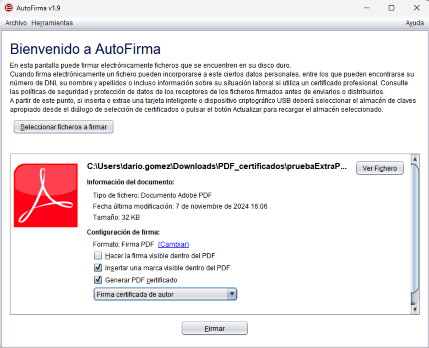
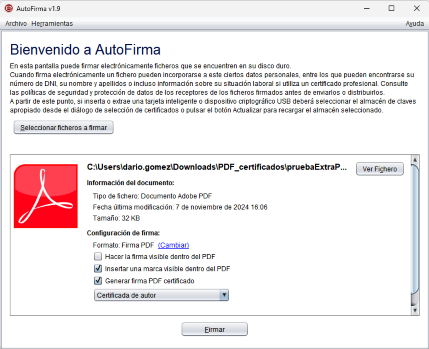
16821 - correccion de errores cambiar items en la info de firma, no afecta al panel de preferencias si es pdf certificado, no permite dicha accion en info firma nueva imagen ayuda nueva entrada en fileslist ampliacion ayuda pades

diff --git a/afirma-simple/src/main/resources/help/Spanish.lproj/pgs/MenuPreferencias.html b/afirma-simple/src/main/resources/help/Spanish.lproj/pgs/MenuPreferencias.html
@@ -120,8 +120,12 @@
       presentar&aacute; al usuario una ventana para la selecci&oacute;n del &aacute;rea y p&aacute;ginas del PDF en las que se
       agregar&aacute; una marca visible. Consulte el apartado <a href="VentanaPdfVisible.html">Marcas visibles PDF</a> para mayor detalle.</li>
       <li>Generar PDF certificado: Al habilitar esta opci&oacute;n, se permitir&aacute; al usuario generar un PDF certificado, con el nivel
-      de certificaci&oacute;n que se elija en el listado situado a continuaci&oacute;n.
-      .</li>
+      de certificaci&oacute;n que se elija en el listado situado a continuaci&oacute;n.</li>
+       <ul>
+        <li>Certificada de autor: No se admiten cambios.</li>
+        <li>Certificada de autor para formularios: Solo se permiten acciones de rellenado de formularios, firma y adici&oacute;n de p&aacute;ginas.</li>
+        <li>Certificada com&uacute;n: Solo se permiten acciones de comentarios, rellenado de formularios, firma y adici&oacute;n de p&aacute;ginas.</li>
+       </ul>
      </ul>
     </li>
     <li><b>Metadatos de las firmas PAdES:</b>

diff --git a/afirma-simple/src/main/java/es/gob/afirma/standalone/ui/SignatureConfigInfoPanel.java b/afirma-simple/src/main/java/es/gob/afirma/standalone/ui/SignatureConfigInfoPanel.java
@@ -2,6 +2,9 @@ package es.gob.afirma.standalone.ui;
 
 import static es.gob.afirma.standalone.configurator.common.PreferencesManager.PREFERENCE_PADES_CHECK_CERTIFIED_PDF;
 import static es.gob.afirma.standalone.configurator.common.PreferencesManager.PREFERENCE_PDF_CERTIFIED_TYPE;
+import static es.gob.afirma.standalone.configurator.common.PreferencesManager.PREFERENCE_PADES_CHECK_CERTIFIED_PDF_SIGCONFIGINFOPANEL;
+import static es.gob.afirma.standalone.configurator.common.PreferencesManager.PREFERENCE_PDF_CERTIFIED_TYPE_SIGCONFIGINFOPANEL;
+import static es.gob.afirma.standalone.configurator.common.PreferencesManager.PREFERENCE_IS_CERTIFIED_PDF;
 
 import java.awt.Color;
 import java.awt.Component;
@@ -41,6 +44,7 @@ import es.gob.afirma.core.signers.AOSigner;
 import es.gob.afirma.core.signers.AOSignerFactory;
 import es.gob.afirma.core.ui.AOUIFactory;
 import es.gob.afirma.signers.pades.AOPDFSigner;
+import es.gob.afirma.signers.pades.common.PdfExtraParams;
 import es.gob.afirma.standalone.LookAndFeelManager;
 import es.gob.afirma.standalone.SimpleAfirmaMessages;
 import es.gob.afirma.standalone.configurator.common.PreferencesManager;
@@ -74,6 +78,8 @@ public class SignatureConfigInfoPanel extends JPanel {
 	JComboBox<Object> padesBasicFormatCertified() {
 		return this.pdfSignCertified;
 	}
+	
+	private JLabel noCertPDFAllowLabel;
 
 	public SignatureConfigInfoPanel(final SignOperationConfig signConfig, final Color bgColor, final SignPanelFilePanel signPanel) {
 		this.signPanelFile = signPanel;
@@ -305,6 +311,15 @@ public class SignatureConfigInfoPanel extends JPanel {
 		final CryptoOperation cop = config.getCryptoOperation();
 		final FileType fileType = config.getFileType();
 		
+		boolean isCertifiedPDF;
+		
+		if(config.getSignValidity() != null){
+			isCertifiedPDF = PreferencesManager.getBoolean(PREFERENCE_IS_CERTIFIED_PDF);
+		}
+		else{
+			isCertifiedPDF = false;
+		}
+		
 		final DefaultComboBoxModel<Object> pdfCertifiedFormatModel = new DefaultComboBoxModel<>(
 				new Object[] {
 					new ValueTextPair(AOSignConstants.PDF_CERT_1, PDF_CERT_TIPO_1),
@@ -355,7 +370,6 @@ public class SignatureConfigInfoPanel extends JPanel {
             // Check para crear PDF certificados
             this.certifiedPDF = new JCheckBox(
         		SimpleAfirmaMessages.getString("PreferencesPanel.210") //$NON-NLS-1$
-        		//PreferencesManager.getBoolean(PreferencesManager.PREFERENCE_PADES_CHECK_CERTIFIED_PDF)  //AQUI
         	);
             this.accesibleDescription += SimpleAfirmaMessages.getString("PreferencesPanel.205"); //$NON-NLS-1$
             if (!LookAndFeelManager.WINDOWS_HIGH_CONTRAST) {
@@ -366,14 +380,21 @@ public class SignatureConfigInfoPanel extends JPanel {
     			@Override
     			public void actionPerformed(final ActionEvent e) {
     				final JCheckBox checkCertifiedCheckBox = (JCheckBox) e.getSource();
-	            	PreferencesManager.put(PREFERENCE_PADES_CHECK_CERTIFIED_PDF, Boolean.toString(checkCertifiedCheckBox.isSelected()));
+	            	PreferencesManager.put(PREFERENCE_PADES_CHECK_CERTIFIED_PDF_SIGCONFIGINFOPANEL, Boolean.toString(checkCertifiedCheckBox.isSelected()));
 	            	pdfSignCertified.setEnabled(checkCertifiedCheckBox.isSelected());
     			}
     		});
             
             final boolean statusCheckCertifiedPFDPadesPanel = PreferencesManager.getBoolean(PreferencesManager.PREFERENCE_PADES_CHECK_CERTIFIED_PDF);
+
             if(statusCheckCertifiedPFDPadesPanel){
-            	if(PreferencesManager.get(PREFERENCE_PDF_CERTIFIED_TYPE).equals(AOSignConstants.PDF_CERT_0)){
+            	
+                if(isCertifiedPDF){
+            		this.certifiedPDF.setSelected(false);
+            		this.certifiedPDF.setEnabled(false);
+            		this.pdfSignCertified.setEnabled(false);
+                }
+                else if(PreferencesManager.get(PREFERENCE_PDF_CERTIFIED_TYPE).equals(AOSignConstants.PDF_CERT_0)){
             		this.certifiedPDF.setVisible(statusCheckCertifiedPFDPadesPanel);
             		this.certifiedPDF.setSelected(false);
             		this.pdfSignCertified.setEnabled(false);
@@ -420,13 +441,22 @@ public class SignatureConfigInfoPanel extends JPanel {
 					final JComboBox tipeCertifiedSignComboBox = (JComboBox) e.getSource();
 					final ComboBoxModel<Object> mdl = tipeCertifiedSignComboBox.getModel();
 					final Object obj = mdl.getElementAt(tipeCertifiedSignComboBox.getSelectedIndex());
-					PreferencesManager.put(PREFERENCE_PDF_CERTIFIED_TYPE, ((ValueTextPair) obj).getValue());
+					PreferencesManager.put(PREFERENCE_PDF_CERTIFIED_TYPE_SIGCONFIGINFOPANEL, ((ValueTextPair) obj).getValue());
 				}
     		});
             
             this.pdfSignCertified.setAlignmentX(Component.LEFT_ALIGNMENT);
             panel.add(this.pdfSignCertified);
             panel.add(Box.createRigidArea(new Dimension(0, 4)));
+            
+            if(isCertifiedPDF){
+        		this.noCertPDFAllowLabel = new JLabel(
+        				SimpleAfirmaMessages.getString("SignPanel.158")); //$NON-NLS-1$
+        		this.accesibleDescription += SimpleAfirmaMessages.getString("SignPanel.158"); //$NON-NLS-1$
+        		
+                panel.add(this.noCertPDFAllowLabel);
+                panel.add(Box.createRigidArea(new Dimension(0, 4)));
+            }
         }
 
         // Agrega boton de opciones avanzadas de multifirma CAdES y XAdES

diff --git a/afirma-simple/src/main/java/es/gob/afirma/standalone/ui/SignPanelSignTask.java b/afirma-simple/src/main/java/es/gob/afirma/standalone/ui/SignPanelSignTask.java
@@ -10,6 +10,7 @@
 package es.gob.afirma.standalone.ui;
 
 import static es.gob.afirma.standalone.configurator.common.PreferencesManager.PREFERENCE_PDF_CERTIFIED_TYPE;
+import static es.gob.afirma.standalone.configurator.common.PreferencesManager.PREFERENCE_PDF_CERTIFIED_TYPE_SIGCONFIGINFOPANEL;
 
 import java.awt.Component;
 import java.io.ByteArrayOutputStream;
@@ -232,13 +233,12 @@ final class SignPanelSignTask extends SwingWorker<Void, Void> {
         	signConfig.addExtraParams(System.getProperties());
         	
     		//extraParams "certificationLevel"
-   		 	final boolean needCheckCertifiedSign = PreferencesManager.getBoolean(PreferencesManager.PREFERENCE_PADES_CHECK_CERTIFIED_PDF);
+   		 	final boolean needCheckCertifiedSign = PreferencesManager.getBoolean(PreferencesManager.PREFERENCE_PADES_CHECK_CERTIFIED_PDF_SIGCONFIGINFOPANEL);
 	   		if (needCheckCertifiedSign) {
 	   			//si el documento esta firmado, no se permite crear pdf certificado
 	   			if(signConfig.getSignValidity() != null && signConfig.getFileType().equals(FileType.PDF)){
 	   				final RuntimeConfigNeededException e = (RuntimeConfigNeededException) signConfig.getSignValidity().get(0).getErrorException();
-	        		LOGGER.severe("El documento "+ signConfig.getDataFile().getName() +" está firmado, no se permite crear pdf certificado"); //$NON-NLS-1$
-	        		showErrorMessage("El documento "+ signConfig.getDataFile().getName() +" está firmado, no se permite crear pdf certificado",e); //$NON-NLS-2$
+	        		LOGGER.severe("El documento se encuentra firmado, no se permite crear pdf certificado"); //$NON-NLS-1$
 	        		if(onlyOneFile){
 	        			return;
 	        		}
@@ -246,7 +246,7 @@ final class SignPanelSignTask extends SwingWorker<Void, Void> {
 	   			}
 	   			else if(signConfig.getFileType().equals(FileType.PDF))
 	   			{
-		   			final String selectedValuePDF = PreferencesManager.get(PREFERENCE_PDF_CERTIFIED_TYPE);
+		   			final String selectedValuePDF = PreferencesManager.get(PREFERENCE_PDF_CERTIFIED_TYPE_SIGCONFIGINFOPANEL);
 		   		    if(selectedValuePDF.equalsIgnoreCase(PDF_CERT_TIPO_0)){
 		   		    	signConfig.addExtraParam(PdfExtraParams.CERTIFICATION_LEVEL, "0");
 		   		    }

diff --git a/afirma-ui-simple-configurator-common/src/main/java/es/gob/afirma/standalone/configurator/common/PreferencesManager.java b/afirma-ui-simple-configurator-common/src/main/java/es/gob/afirma/standalone/configurator/common/PreferencesManager.java
@@ -357,6 +357,17 @@ public final class PreferencesManager {
 	 * </ul>*/
 	
 	public static final String PREFERENCE_PDF_CERTIFIED_TYPE = "pdfCertifiedTpe"; //$NON-NLS-1$
+	
+	/** Tipos de firma pdf certificados
+	 * Esta preferencia debe tener uno de estos valores:
+	 * <ul>
+	 *  <li>Sin certificar</li>
+	 *  <li>Certificada de autor</li>
+	 *  <li>Certificada de autor para formularios</li>
+	 *  <li>Certificada común</li>
+	 * </ul>*/
+	
+	public static final String PREFERENCE_PDF_CERTIFIED_TYPE_SIGCONFIGINFOPANEL = "pdfCertifiedTpeInfoPanel"; //$NON-NLS-1$
 
 	//**************************************************************************************************************************
 	//************************* PREFERENCIAS DE FIRMAS PAdES *******************************************************************
@@ -409,6 +420,10 @@ public final class PreferencesManager {
 	/** Si est&aacute; establecido a <code>true</code> se comprobar&aacute;n posibles PDF Shadow Attacks
 	 * si se establece a <code>false</code>, no se realizar&aacute; la comprobaci&oacute;n */
 	public static final String PREFERENCE_PADES_CHECK_CERTIFIED_PDF = "certifiedPDFOption"; //$NON-NLS-1$
+	
+	/** Si est&aacute; establecido a <code>true</code> se comprobar&aacute;n posibles PDF Shadow Attacks
+	 * si se establece a <code>false</code>, no se realizar&aacute; la comprobaci&oacute;n */
+	public static final String PREFERENCE_PADES_CHECK_CERTIFIED_PDF_SIGCONFIGINFOPANEL = "certifiedPDFOptionInfoPanel"; //$NON-NLS-1$
 
 	/** Motivo de la firma en firmas PAdES. */
 	public static final String PREFERENCE_PADES_SIGN_REASON = "padesSignReason"; //$NON-NLS-1$
@@ -711,6 +726,8 @@ public final class PreferencesManager {
 
 
 	private static final String CONFIGURATION_DATE_FORMAT = "YYYYMMdd"; //$NON-NLS-1$
+
+	public static final String PREFERENCE_IS_CERTIFIED_PDF = "isCertifiedPDF";
 
 	/** Recupera la cadena con el valor de una propiedad de configuraci&oacute;n. La propiedad se
 	 * buscar&aacute;, por orden, en las preferencia del usuario, del sistema o en la configuraci&oacute;n

diff --git a/afirma-simple/src/main/java/es/gob/afirma/standalone/ui/preferences/PreferencesPanelPades.java b/afirma-simple/src/main/java/es/gob/afirma/standalone/ui/preferences/PreferencesPanelPades.java
@@ -23,6 +23,8 @@ import static es.gob.afirma.standalone.configurator.common.PreferencesManager.PR
 import static es.gob.afirma.standalone.configurator.common.PreferencesManager.PREFERENCE_PADES_VISIBLE;
 import static es.gob.afirma.standalone.configurator.common.PreferencesManager.PREFERENCE_PADES_CHECK_CERTIFIED_PDF;
 import static es.gob.afirma.standalone.configurator.common.PreferencesManager.PREFERENCE_PDF_CERTIFIED_TYPE;
+import static es.gob.afirma.standalone.configurator.common.PreferencesManager.PREFERENCE_PADES_CHECK_CERTIFIED_PDF_SIGCONFIGINFOPANEL;
+import static es.gob.afirma.standalone.configurator.common.PreferencesManager.PREFERENCE_PDF_CERTIFIED_TYPE_SIGCONFIGINFOPANEL;
 
 import java.awt.Color;
 import java.awt.Container;
@@ -517,6 +519,7 @@ final class PreferencesPanelPades extends JScrollPane {
 		PreferencesManager.put(PREFERENCE_PADES_STAMP, Boolean.toString(this.visiblePdfStamp.isSelected()));
 		PreferencesManager.put(PREFERENCE_PADES_CHECK_SHADOW_ATTACK, Boolean.toString(this.checkShadowAttack.isSelected()));
 		PreferencesManager.put(PREFERENCE_PADES_CHECK_CERTIFIED_PDF, Boolean.toString(this.checkAllowCertifiedPdf.isSelected()));
+		PreferencesManager.put(PREFERENCE_PADES_CHECK_CERTIFIED_PDF_SIGCONFIGINFOPANEL, Boolean.toString(this.checkAllowCertifiedPdf.isSelected()));
 
 		PreferencesManager.put(PREFERENCE_PADES_SIGNER_CONTACT, this.padesSignerContact.getText());
 		PreferencesManager.put(PREFERENCE_PADES_SIGN_PRODUCTION_CITY, this.padesSignProductionCity.getText());
@@ -529,6 +532,7 @@ final class PreferencesPanelPades extends JScrollPane {
 		final ComboBoxModel<Object> mdl = this.pdfSignCertified.getModel();
 		final Object obj = mdl.getElementAt(this.pdfSignCertified.getSelectedIndex());
 		PreferencesManager.put(PREFERENCE_PDF_CERTIFIED_TYPE, ((ValueTextPair) obj).getValue());
+		PreferencesManager.put(PREFERENCE_PDF_CERTIFIED_TYPE_SIGCONFIGINFOPANEL, ((ValueTextPair) obj).getValue());
 
 		final AdESPolicy padesPolicy = this.padesPolicyDlg.getSelectedPolicy();
 		if (padesPolicy != null) {

diff --git a/afirma-simple/src/main/java/es/gob/afirma/standalone/signdetails/PAdESSignAnalyzer.java b/afirma-simple/src/main/java/es/gob/afirma/standalone/signdetails/PAdESSignAnalyzer.java
@@ -1,5 +1,8 @@
 package es.gob.afirma.standalone.signdetails;
 
+import static es.gob.afirma.standalone.configurator.common.PreferencesManager.PREFERENCE_PADES_VISIBLE;
+import static es.gob.afirma.standalone.configurator.common.PreferencesManager.PREFERENCE_IS_CERTIFIED_PDF;
+
 import java.text.DateFormat;
 import java.util.ArrayList;
 import java.util.HashMap;
@@ -38,6 +41,7 @@ import es.gob.afirma.signvalidation.ValidatePdfSignature;
 import es.gob.afirma.signvalidation.SignValidity.SIGN_DETAIL_TYPE;
 import es.gob.afirma.signvalidation.SignValidity.VALIDITY_ERROR;
 import es.gob.afirma.standalone.SimpleAfirmaMessages;
+import es.gob.afirma.standalone.configurator.common.PreferencesManager;
 
 public class PAdESSignAnalyzer implements SignAnalyzer {
 
@@ -114,6 +118,12 @@ public class PAdESSignAnalyzer implements SignAnalyzer {
         	int certLevel = -1;
         	try {
         		certLevel = pdfReader.getCertificationLevel();
+        		if(certLevel != -1){
+        			PreferencesManager.put(PREFERENCE_IS_CERTIFIED_PDF, Boolean.toString(true));
+        		}
+        		else{
+        			PreferencesManager.put(PREFERENCE_IS_CERTIFIED_PDF, Boolean.toString(false));
+        		}
         	}
         	catch (final Exception e) {
         		LOGGER.severe("El pdf no es certificado, se devolvera valor -1: " + e); //$NON-NLS-1$
